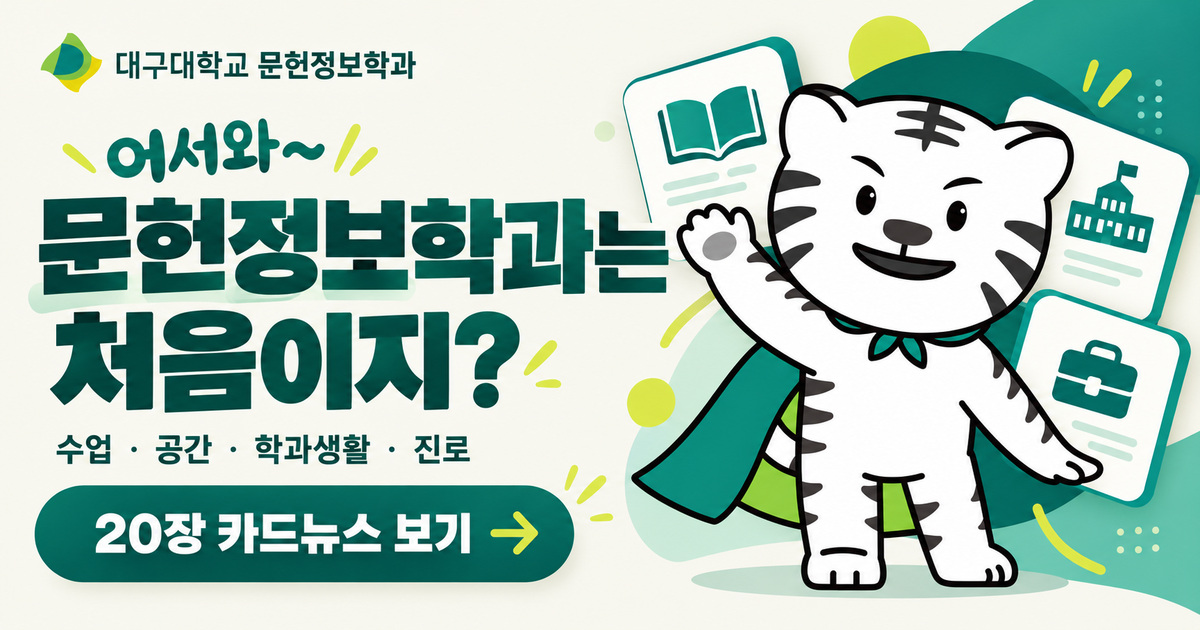
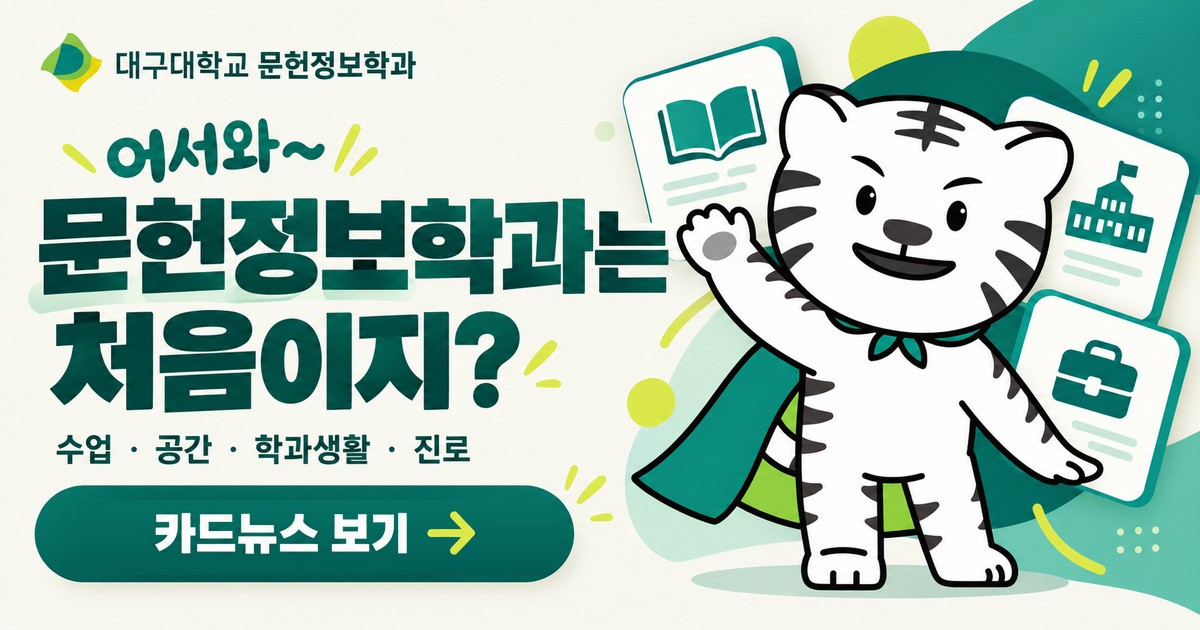
공유 썸네일(og.jpg) 버튼에서 '20장' 삭제

diff --git a/index.html b/index.html
@@ -17,7 +17,7 @@
   <meta property="og:type" content="website">
   <meta property="og:title" content="어서와~ 문헌정보학과는 처음이지? | 대구대학교">
   <meta property="og:description" content="어서와~ 문헌정보학과는 처음이지? 수업·공간·학과생활을 카드로 만나 보세요.">
-  <meta property="og:image" content="https://dulis-1508.github.io/lis-cardnews/images/og.jpg?v=2">
+  <meta property="og:image" content="https://dulis-1508.github.io/lis-cardnews/images/og.jpg?v=3">
   <meta property="og:url" content="https://dulis-1508.github.io/lis-cardnews/">
   <meta property="og:image:width" content="1200">
   <meta property="og:image:height" content="630">

diff --git a/mobile.html b/mobile.html
@@ -11,7 +11,7 @@
   <meta property="og:type" content="website">
   <meta property="og:title" content="어서와~ 문헌정보학과는 처음이지? | 대구대학교">
   <meta property="og:description" content="어서와~ 문헌정보학과는 처음이지? 수업·공간·학과생활을 카드로 만나 보세요.">
-  <meta property="og:image" content="https://dulis-1508.github.io/lis-cardnews/images/og.jpg?v=2">
+  <meta property="og:image" content="https://dulis-1508.github.io/lis-cardnews/images/og.jpg?v=3">
   <meta property="og:url" content="https://dulis-1508.github.io/lis-cardnews/">
   <meta property="og:image:width" content="1200">
   <meta property="og:image:height" content="630">
